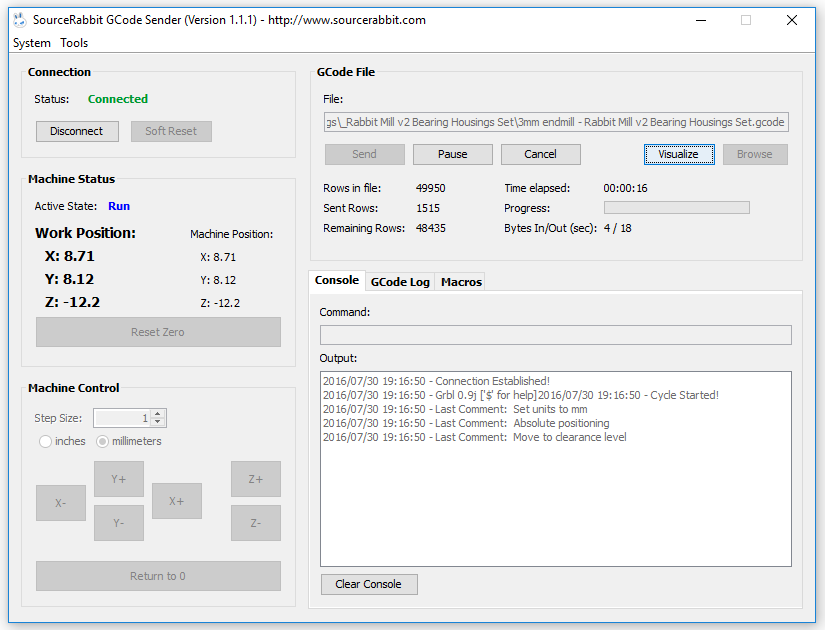
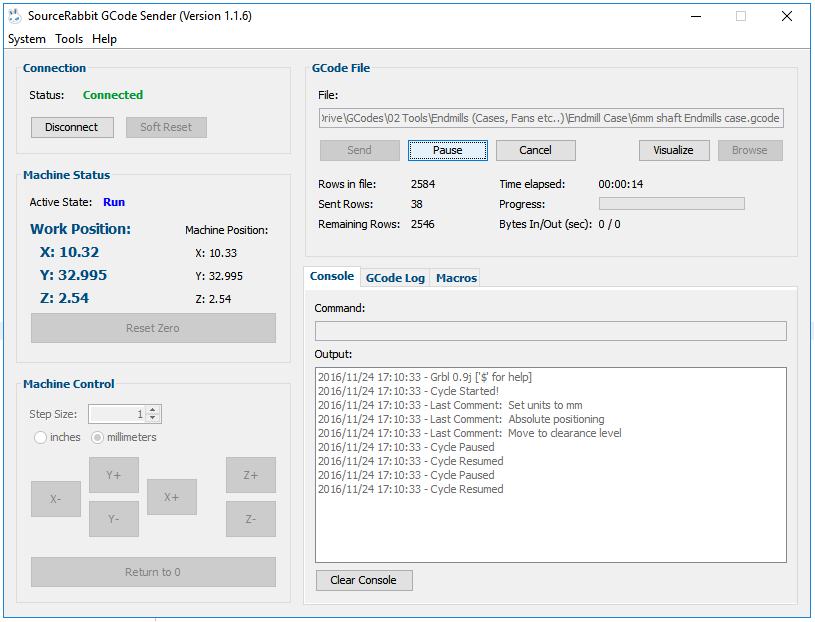
v1.1.6

diff --git a/src/sourcerabbit/gcode/sender/UI/frmControl.java b/src/sourcerabbit/gcode/sender/UI/frmControl.java
@@ -614,7 +614,6 @@ public class frmControl extends javax.swing.JFrame
         jMenuItem1 = new javax.swing.JMenuItem();
         jMenuItem2 = new javax.swing.JMenuItem();
         jMenuItemHoleCenterFinder = new javax.swing.JMenuItem();
-        jMenuItemEdgeFinder = new javax.swing.JMenuItem();
         jMenu3 = new javax.swing.JMenu();
         jMenuItem3 = new javax.swing.JMenuItem();
         jMenuItem4 = new javax.swing.JMenuItem();
@@ -1366,17 +1365,6 @@ public class frmControl extends javax.swing.JFrame
         });
         jMenu2.add(jMenuItemHoleCenterFinder);
 
-        jMenuItemEdgeFinder.setIcon(new javax.swing.ImageIcon(getClass().getResource("/sourcerabbit/gcode/sender/UI/Images/EdgeFinder/Edge Finder-16x16.png"))); // NOI18N
-        jMenuItemEdgeFinder.setText("Edge Finder");
-        jMenuItemEdgeFinder.addActionListener(new java.awt.event.ActionListener()
-        {
-            public void actionPerformed(java.awt.event.ActionEvent evt)
-            {
-                jMenuItemEdgeFinderActionPerformed(evt);
-            }
-        });
-        jMenu2.add(jMenuItemEdgeFinder);
-
         jMenuBar1.add(jMenu2);
 
         jMenu3.setText("Help");
@@ -1825,12 +1813,6 @@ public class frmControl extends javax.swing.JFrame
         frm.setVisible(true);
     }//GEN-LAST:event_jMenuItemHoleCenterFinderActionPerformed
 
-    private void jMenuItemEdgeFinderActionPerformed(java.awt.event.ActionEvent evt)//GEN-FIRST:event_jMenuItemEdgeFinderActionPerformed
-    {//GEN-HEADEREND:event_jMenuItemEdgeFinderActionPerformed
-        frmEdgeFinder frm = new frmEdgeFinder(this, true);
-        frm.setVisible(true);
-    }//GEN-LAST:event_jMenuItemEdgeFinderActionPerformed
-
     // Variables declaration - do not modify//GEN-BEGIN:variables
     private javax.swing.JButton jButtonClearConsole;
     private javax.swing.JButton jButtonClearLog;
@@ -1888,7 +1870,6 @@ public class frmControl extends javax.swing.JFrame
     private javax.swing.JMenuItem jMenuItem2;
     private javax.swing.JMenuItem jMenuItem3;
     private javax.swing.JMenuItem jMenuItem4;
-    private javax.swing.JMenuItem jMenuItemEdgeFinder;
     private javax.swing.JMenuItem jMenuItemExit;
     private javax.swing.JMenuItem jMenuItemGRBLSettings;
     private javax.swing.JMenuItem jMenuItemHoleCenterFinder;

diff --git a/src/sourcerabbit/gcode/sender/Core/Settings/SettingsManager.java b/src/sourcerabbit/gcode/sender/Core/Settings/SettingsManager.java
@@ -30,7 +30,7 @@ import java.util.Properties;
 public class SettingsManager
 {
 
-    private static final String fAppVersion = "1.1.5";
+    private static final String fAppVersion = "1.1.6";
     public static final Properties fAppSettings = new Properties();
     private static String fSettingsFilePath = "";
 
